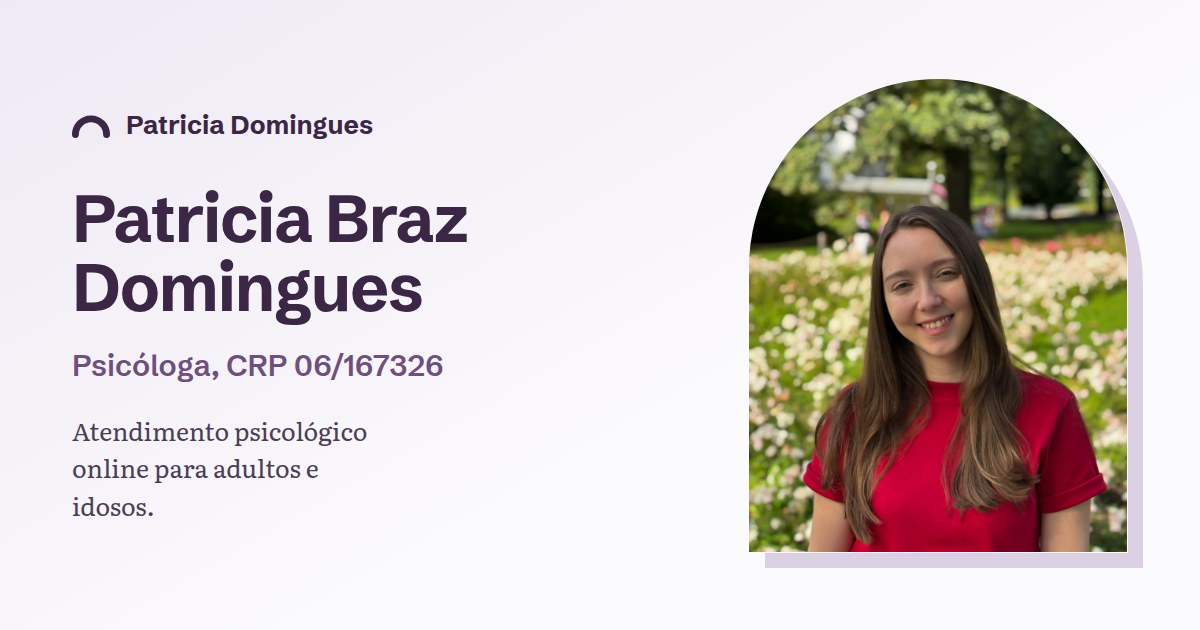
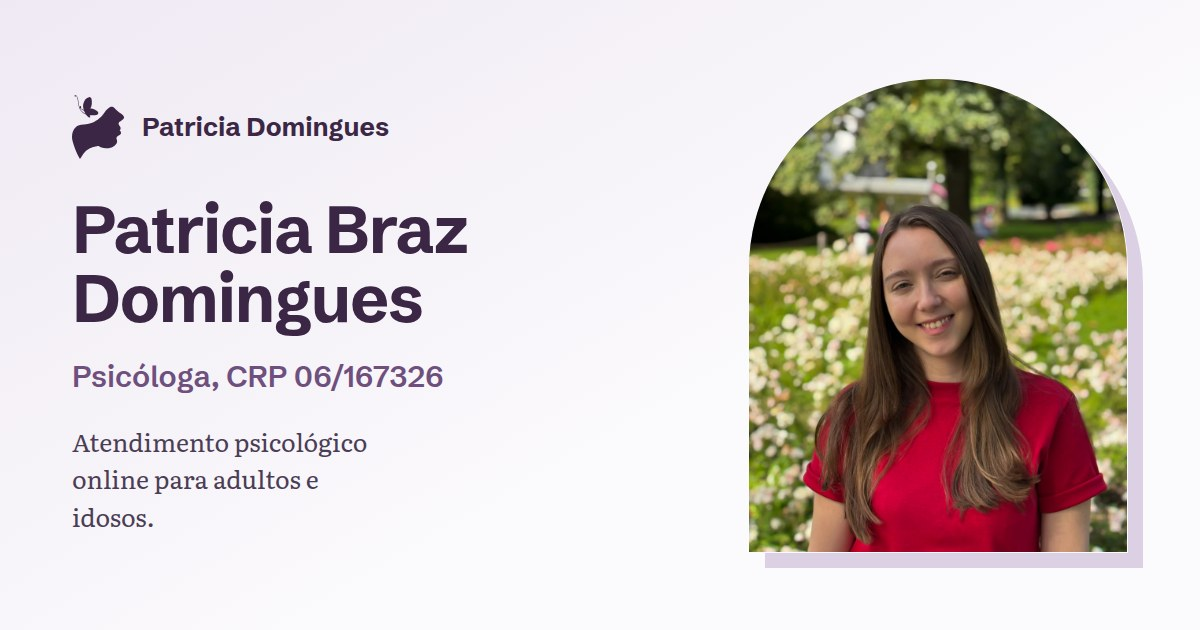
Coloca o logotipo da Patricia no lugar do monograma provisório
O briefing deixava em aberto se ela já tinha logo. Tinha: um rosto de
perfil em traço contínuo com uma borboleta, mais o nome manuscrito. O
arco que eu havia inventado como marca sai do cabeçalho e do centro do
selo.

Os três PNGs foram vetorizados para SVG (scripts/vetorizar-logo.mjs).
Em vetor a marca fica nítida em qualquer tamanho, pesa poucos KB e, por
usar currentColor, se recolore sozinha: ameixa no fundo claro, clara
dentro da faixa escura, e acompanha uma eventual troca de paleta sem
precisar de um segundo arquivo.

Cada lugar recebe o recorte que o tamanho comporta, o que foi decidido
medindo em prova de tela:

- cabeçalho e menu: só o símbolo, 48 px. Abaixo de ~110 px o manuscrito
  fica ilegível, então o nome continua tipografado ao lado.
- centro do selo do CRP: só a borboleta.
- rodapé: a assinatura inteira, único lugar com espaço para o
  manuscrito ser lido.
- favicon: a borboleta sobre quadrado ameixa.

Em tamanho pequeno o traço original some. Como o caminho é um contorno
preenchido, um stroke da mesma cor engrossa a marca sem redesenhá-la:
15 no cabeçalho, 18 no selo, 40 no favicon. Acima de ~28 a linha perde
a delicadeza do original.

O arco continua onde sempre foi forma de layout e não marca: o recorte
da foto do hero e os marcadores em ocre da lista. O princípio 1.1 do
plano de design foi reescrito para registrar a troca.

Claude-Session: https://claude.ai/code/session_01X8HGR24QLZTwQCYtNPGHij

Changed region(s): [[0.0617, 0.3016, 0.4008, 0.6333], [0.0617, 0.6635, 0.3083, 0.8444], [0.0617, 0.1508, 0.3392, 0.2413]]

diff --git a/scripts/og-template.html b/scripts/og-template.html
@@ -38,7 +38,7 @@
     padding: 72px;
   }
 
-  .marca { display: flex; align-items: center; gap: 16px; margin-bottom: 40px; }
+  .marca { display: flex; align-items: center; gap: 18px; margin-bottom: 36px; }
   .marca svg { color: var(--ameixa-900); }
   .marca span { font-size: 26px; font-weight: 700; color: var(--ameixa-900); }
 
@@ -100,8 +100,8 @@
 <body>
   <div>
     <div class="marca">
-      <svg viewBox="0 0 100 60" width="38" height="38" fill="none">
-        <path d="M9 55 A 41 41 0 0 1 91 55" stroke="currentColor" stroke-width="18" stroke-linecap="round"/>
+      <svg viewBox="0 0 2000 2460" style="height:64px;width:auto" fill="currentColor">
+        <path d="M 131 1.132 C 124.134 2.279, 114.559 6.692, 109.723 10.938 C 100.531 19.009, 96.302 36.858, 100.997 47.771 C 108.640 65.537, 134.548 72.027, 141.008 57.793 C 142.196 55.175, 142.948 51.354, 142.936 48 C 142.914 41.662, 140.040 32.617, 137.935 32.257 C 135.776 31.888, 123.485 39.457, 123.600 41.084 C 123.655 41.863, 124.052 43.603, 124.481 44.951 L 125.262 47.402 122.381 45.526 C 118.355 42.905, 117.068 40.972, 117.037 37.500 C 116.940 26.371, 125.015 19, 137.305 19 C 141.945 19, 143.409 19.527, 148.087 22.881 C 171.874 39.937, 201.879 104.232, 216.511 169.500 C 222.745 197.312, 229.333 241.545, 232.989 280.146 C 239.771 351.752, 249.175 403.262, 264.948 455.201 C 283.211 515.344, 299.962 552.886, 325.092 590 C 356.317 636.114, 402.043 678.929, 452.454 709.250 C 474.842 722.716, 507.389 738.334, 530 746.461 C 536.987 748.973, 537.842 749.610, 542.500 755.782 C 569.936 792.135, 613.076 835.030, 641 853.721 C 664.249 869.283, 679.729 871.916, 691.042 862.232 C 696.880 857.235, 699.243 851.972, 699.795 842.744 C 700.602 829.229, 695.715 811.020, 685.304 788.744 C 683.310 784.478, 681.864 780.816, 682.089 780.606 C 682.315 780.396, 686.325 780.630, 691 781.126 C 706.259 782.746, 770.020 783.339, 795 782.094 C 919.711 775.879, 985.608 755.505, 1004.760 717.240 C 1016.968 692.848, 1010.125 666.068, 984.049 636.194 C 960.724 609.473, 914.209 576.764, 866.500 553.534 C 826.577 534.096, 778.232 523.093, 724.341 521.180 L 705.183 520.500 710.133 512.500 C 734.890 472.495, 752.258 419.799, 758.417 366 C 761.900 335.571, 763.203 265.075, 760.973 227.711 C 757.044 161.910, 744.248 122.156, 719.672 99.402 C 711.790 92.105, 698.704 85.064, 688 82.360 C 680.018 80.345, 664.199 80.138, 654 81.915 C 626.143 86.772, 580.178 110.583, 550 135.791 C 528.254 153.955, 504.838 181.242, 488.462 207.500 C 458.894 254.911, 436.398 320.147, 428.459 381.500 C 424.855 409.346, 425.528 450.607, 430.105 482.500 C 433.835 508.497, 444.023 551.316, 451.982 574.448 C 453.095 577.682, 453.823 580.510, 453.601 580.732 C 453.379 580.955, 442.690 574.280, 429.848 565.900 C 417.007 557.520, 396.600 544.482, 384.500 536.926 C 349.220 514.895, 343.230 510.900, 336.899 505.171 C 333.607 502.191, 331.100 499.566, 331.329 499.337 C 331.558 499.109, 334.797 500.070, 338.526 501.474 C 342.256 502.877, 345.518 503.815, 345.776 503.558 C 347.557 501.776, 350.243 487.853, 350.710 477.975 C 351.169 468.285, 350.916 465.100, 349.122 457.975 C 344.808 440.841, 334.581 424.667, 326.342 421.948 C 320.629 420.062, 316.345 421.525, 310.521 427.348 C 302.382 435.487, 296.073 451.123, 296.017 463.292 C 295.958 476.218, 303.491 495.212, 313.446 507.238 C 323.101 518.901, 334.079 527.192, 363.444 544.996 C 372.763 550.646, 392.563 563.221, 407.444 572.940 C 422.325 582.658, 440.887 594.559, 448.694 599.386 L 462.887 608.162 465.579 615.331 C 478.378 649.422, 494.904 683.793, 512.058 711.999 C 515.235 717.224, 517.710 721.623, 517.557 721.776 C 517.083 722.250, 490.056 709.424, 479 703.479 C 441.372 683.243, 409.732 659.178, 378.979 627.403 C 351.530 599.042, 332.246 571.646, 314.992 536.500 C 304.671 515.474, 299.105 501.648, 290.438 475.500 C 270.044 413.976, 258.804 359.692, 252.442 292 C 243.440 196.216, 231.340 138.769, 209.068 86.072 C 195.586 54.172, 181.211 30.170, 167.040 15.899 C 154.282 3.049, 144.214 -1.076, 131 1.132 M 657 99.698 C 646.189 101.536, 632.794 106.517, 616 114.944 C 573.719 136.160, 545.991 159.244, 517.903 196.608 C 471.697 258.075, 441.332 357.052, 444.380 436.268 C 446.161 482.546, 453.813 520.908, 473.747 583.488 L 477.565 595.475 492.033 603.853 C 560.881 643.719, 587.411 661.939, 613.834 687.500 C 634.143 707.145, 650.208 727.067, 664.852 750.761 C 668.333 756.392, 671.477 761.006, 671.840 761.012 C 672.203 761.019, 679.250 761.718, 687.500 762.565 C 732.107 767.145, 815.731 764.797, 870.783 757.420 C 926.512 749.952, 962.535 737.642, 980.064 720.077 C 987.269 712.858, 990.420 707.294, 992.020 698.965 C 997.542 670.220, 960.811 628.880, 894.500 589.206 C 861.025 569.179, 832.654 557.165, 800.934 549.585 C 770.165 542.233, 748.184 539.653, 715.805 539.593 L 691.111 539.547 688.419 542.024 C 686.939 543.386, 676.483 554.850, 665.183 567.500 C 626.790 610.482, 616.576 618.546, 594.141 623.594 C 585.277 625.588, 574.075 625.122, 569 622.547 C 557.060 616.491, 552.353 603.754, 556.970 590 C 561.260 577.219, 572.483 562.244, 584.703 552.993 C 603.117 539.053, 635.924 528.515, 676.543 523.493 L 681.586 522.869 688.705 512.185 C 703.425 490.091, 714.982 466.148, 723.980 439.101 C 738.859 394.376, 743.976 353.018, 743.972 277.500 C 743.969 206.813, 737.920 164.105, 723.894 135.739 C 718.799 125.435, 716.171 121.684, 708.896 114.334 C 697.976 103.302, 686.589 98.905, 669.540 99.136 C 664.018 99.211, 658.375 99.464, 657 99.698 M 320.653 443.131 C 311.753 456.741, 312.762 474.313, 323.351 490.117 C 325.703 493.628, 328.048 496.421, 328.564 496.323 C 330.613 495.937, 332.317 486.167, 332.369 474.500 C 332.417 463.760, 332.141 461.786, 329.736 455.696 C 328.258 451.954, 325.958 447.063, 324.625 444.828 L 322.201 440.763 320.653 443.131 M 1499.231 454.146 C 1480.482 456.834, 1454.164 466.119, 1435.435 476.654 C 1396.036 498.813, 1354.994 536.268, 1313.423 588 C 1299.538 605.279, 1286.501 622.727, 1257.009 663.500 C 1211.476 726.450, 1191.591 752.237, 1163.072 785.320 C 1095.643 863.539, 1016.512 931.030, 918.404 993.998 C 839.233 1044.813, 768.205 1075.629, 679.837 1097.506 C 622.442 1111.715, 578.821 1118.526, 462 1131.521 C 402.250 1138.168, 366.397 1142.923, 341.500 1147.505 C 247.051 1164.884, 185.390 1193.769, 134.444 1244.500 C 88.246 1290.503, 49.878 1355.444, 27.211 1426 C -1.711 1516.027, -7.552 1619.839, 10.585 1721.500 C 18.122 1763.741, 47.522 1865.921, 79.353 1960.500 C 132.874 2119.526, 199.259 2272.230, 266.724 2391.500 C 282.827 2419.969, 307.303 2460.097, 308.077 2459.300 C 308.504 2458.860, 334.018 2419.535, 364.774 2371.911 C 427.568 2274.678, 436.342 2262.037, 464.318 2228.500 C 525.728 2154.882, 604.420 2091.874, 690.500 2047.397 C 773.313 2004.608, 863.483 1977.976, 957.500 1968.537 C 976.475 1966.632, 1003.486 1965.022, 1016.681 1965.010 L 1026.861 1965 1048.236 1975.428 C 1132.107 2016.348, 1206.037 2038.306, 1288 2046.642 C 1319.620 2049.857, 1373.769 2048.911, 1414.500 2044.432 C 1496.467 2035.417, 1564.889 2008.551, 1621.447 1963.173 C 1672.227 1922.432, 1697.637 1893.801, 1715.037 1857.717 C 1727.049 1832.806, 1732.890 1810.029, 1733.735 1784.804 C 1734.601 1758.937, 1732.175 1745.644, 1719.560 1707.146 C 1709.874 1677.586, 1708.603 1671.161, 1709.262 1655.073 C 1709.860 1640.482, 1711.825 1633.097, 1718.597 1620 C 1724.466 1608.647, 1731.473 1599.545, 1741.340 1590.454 C 1755.370 1577.529, 1768.415 1568.937, 1808 1546.551 C 1847.726 1524.084, 1865.921 1508.282, 1875.992 1487.500 C 1882.066 1474.965, 1883.425 1468.595, 1883.355 1453 C 1883.286 1437.525, 1881.553 1429.487, 1875.166 1415.014 C 1868.761 1400.500, 1859.765 1387.557, 1843.661 1369.691 L 1835.722 1360.882 1838.739 1357.691 C 1844.051 1352.073, 1850.569 1342.442, 1855.435 1333.021 C 1864.643 1315.193, 1868.058 1300.941, 1868.063 1280.321 C 1868.069 1259.262, 1863.443 1240.810, 1852.882 1219.765 C 1844.499 1203.059, 1839.625 1195.830, 1817.981 1168 C 1793.511 1136.534, 1786.036 1104.622, 1796.093 1074.546 C 1801.523 1058.306, 1813.918 1040.341, 1828.615 1027.411 C 1832.952 1023.595, 1865.765 1000.351, 1901.534 975.758 C 1967.682 930.276, 1975.092 924.584, 1983.875 912.500 C 1989.148 905.246, 1993.845 895.633, 1996.578 886.500 C 2000.136 874.612, 2000.396 856.742, 1997.184 844.813 C 1990.513 820.037, 1976.894 798.745, 1951.558 773.482 C 1935.821 757.789, 1923.199 747.432, 1892.500 725.016 C 1832.362 681.104, 1774.074 633.463, 1717.587 582.052 C 1701.467 567.380, 1670.651 536.901, 1641.500 506.796 C 1634.350 499.412, 1624.520 490.415, 1619.656 486.802 C 1596.269 469.432, 1568.645 457.700, 1542.608 454.078 C 1533.526 452.815, 1508.237 452.854, 1499.231 454.146 M 1505.500 471.615 C 1458.647 478.438, 1416.733 503.560, 1367 554.629 C 1342.557 579.729, 1320.963 606.191, 1288.971 650.250 C 1279.087 663.862, 1262.908 686.138, 1253.018 699.750 C 1206.694 763.511, 1174.373 802.379, 1131.515 845.869 C 1087.614 890.418, 1044.806 927.300, 994.882 963.588 C 883.666 1044.428, 799.594 1085.704, 688.446 1114.038 C 630.642 1128.773, 582.933 1136.409, 473 1148.522 C 368.334 1160.055, 332.699 1165.825, 288 1178.478 C 228.053 1195.448, 185.613 1219.356, 146.916 1257.957 C 119.731 1285.076, 99.189 1313.035, 78.191 1351.500 C 26.219 1446.704, 7.033 1571.658, 25.063 1697.500 C 30.245 1733.662, 43.499 1785.803, 67.559 1864.666 C 129.731 2068.458, 209.100 2257.017, 293.948 2402.500 C 300.684 2414.050, 306.714 2424.027, 307.348 2424.671 C 308.222 2425.559, 319.968 2408.055, 356 2352.171 C 382.125 2311.652, 408.397 2271.635, 414.381 2263.244 C 473.472 2180.399, 553.545 2106.547, 641 2054.231 C 746.506 1991.117, 868.854 1953.826, 990.374 1947.744 L 995.248 1947.500 972.374 1933.801 C 934.042 1910.843, 875.505 1871.717, 816.530 1829.635 C 684.851 1735.674, 570.981 1613.253, 484.808 1473 C 474.849 1456.790, 459.700 1430.649, 451.649 1415.779 L 446.927 1407.059 455.175 1402.912 C 459.711 1400.632, 463.575 1399.225, 463.762 1399.786 C 463.949 1400.347, 468.945 1409.512, 474.864 1420.153 C 559.621 1572.526, 678.335 1706.710, 819 1809.136 C 858.781 1838.103, 932.531 1888.128, 966.500 1909.186 C 1072.120 1974.664, 1172.872 2013.776, 1267.164 2025.906 C 1322.579 2033.034, 1383.980 2031.790, 1440.500 2022.394 C 1500.398 2012.437, 1555.209 1990.103, 1598.663 1957.949 C 1628.258 1936.049, 1663.954 1902.488, 1678.661 1882.735 C 1707.707 1843.723, 1720.606 1799.138, 1714.523 1758.780 C 1712.555 1745.725, 1710.041 1736.205, 1702.440 1713.026 C 1694.395 1688.493, 1692.389 1680.625, 1691.027 1668.245 C 1687.716 1638.160, 1700.072 1606.117, 1724.491 1581.457 C 1738.752 1567.056, 1753.036 1557.193, 1791.410 1535.250 C 1825.270 1515.889, 1834.170 1509.855, 1845.582 1498.520 C 1852.965 1491.188, 1855.448 1487.909, 1858.851 1481 C 1866.158 1466.166, 1867.604 1451.981, 1863.464 1435.772 C 1861.141 1426.678, 1853.236 1410.837, 1845.954 1400.683 C 1838.383 1390.127, 1823.597 1374.163, 1821.574 1374.360 C 1820.119 1374.501, 1810 1363.392, 1810 1361.654 C 1810 1360.149, 1821.100 1347.944, 1821.976 1348.485 C 1823.016 1349.128, 1828.429 1342.477, 1834.749 1332.790 C 1844.976 1317.117, 1849.941 1300.349, 1849.978 1281.360 C 1850.038 1250.744, 1838.151 1222.699, 1810.195 1187.500 C 1797.931 1172.058, 1791.078 1161.521, 1784.999 1148.759 C 1767.274 1111.549, 1769.838 1075.515, 1792.652 1041.228 C 1798.942 1031.775, 1814.104 1015.453, 1823.419 1008.108 C 1826.764 1005.471, 1857.850 983.878, 1892.500 960.124 C 1962.416 912.195, 1965.977 909.303, 1973.928 894.022 C 1979.277 883.740, 1981.308 875.591, 1981.286 864.500 C 1981.238 840.960, 1967.179 814.517, 1940.439 787.672 C 1925.769 772.944, 1915.253 764.316, 1882.688 740.291 C 1832.927 703.579, 1793.800 672.522, 1750.499 635.365 C 1706.697 597.779, 1658.335 552.136, 1639.807 530.898 C 1628.072 517.447, 1622.057 511.683, 1610 502.339 C 1592.059 488.435, 1570.380 478.182, 1549 473.490 C 1541.734 471.895, 1512.289 470.626, 1505.500 471.615 M 649 546.559 C 614.931 554.407, 600.699 561.081, 586.989 575.641 C 576.444 586.840, 570.531 600.388, 574.470 604.327 C 577.075 606.933, 580.860 607.428, 588.475 606.161 C 598.825 604.439, 609.904 598.609, 619.294 589.944 C 626.108 583.656, 658.279 548.637, 660.353 545.250 C 661.309 543.689, 661.607 543.654, 649 546.559 M 489.913 627.750 C 496.294 643.842, 511.617 675.273, 521.510 692.560 C 526.477 701.241, 543.564 727.512, 547.255 732.144 C 550.116 735.733, 599.197 749.211, 628.500 754.454 C 636.200 755.832, 643.741 757.183, 645.258 757.456 L 648.015 757.953 646.267 755.227 C 634.036 736.156, 620.640 719.566, 604.501 703.500 C 589.210 688.279, 574.042 676.222, 550.500 660.575 C 535.058 650.312, 490.089 623, 488.633 623 C 488.301 623, 488.877 625.138, 489.913 627.750 M 569 759.754 C 569 761.175, 588.684 782.713, 603.987 798.037 C 623.636 817.712, 636.873 829.098, 651.283 838.719 C 666.250 848.711, 675.146 851.813, 679.559 848.577 C 681.236 847.346, 681.491 845.955, 681.433 838.327 C 681.375 830.729, 680.794 827.810, 677.256 817.366 C 674.996 810.692, 670.230 799.124, 666.666 791.658 C 659.472 776.592, 660.949 777.800, 647.500 775.983 C 627.870 773.331, 594.206 766.383, 575.750 761.174 C 572.038 760.126, 569 759.487, 569 759.754"/>
       </svg>
       <span>Patricia Domingues</span>
     </div>

diff --git a/docs/plano-design.md b/docs/plano-design.md
@@ -6,15 +6,37 @@ sairia "de fábrica" para qualquer site de psicologia.
 
 ## 1. Três princípios
 
-### 1.1 O arco é a única assinatura, e ela é escassa
+### 1.1 A marca dela aparece pouco, e por isso aparece
 
-O arco (◠) aparece em exatamente três lugares: a foto do hero, o monograma do
-logotipo e os marcadores da lista "Talvez você esteja aqui". Em nenhum outro.
+> Revisado depois que a Patricia enviou o logotipo dela. A versão anterior
+> deste princípio dizia que o arco (◠) era a assinatura do site — ele era um
+> monograma provisório, inventado enquanto não se sabia se ela tinha logo.
+> Tem. O arco saiu do logotipo e do centro do selo.
 
-O reflexo automático seria repetir a forma em todo canto — topo de seção,
-divisória, moldura de ícone — até virar papel de parede. A escassez é o que faz
-o arco ser lido como assinatura e não como enfeite. Se a forma aparecer num
-quarto lugar, ela deixa de significar alguma coisa.
+O logotipo da Patricia é um rosto de perfil em traço contínuo com uma borboleta,
+acompanhado do nome manuscrito. Ele aparece em três lugares, cada um com o
+recorte que aquele tamanho comporta:
+
+| Onde | Recorte | Por quê |
+|---|---|---|
+| Cabeçalho e menu | só o símbolo, 48 px | abaixo de ~110 px o manuscrito fica ilegível; o nome vai tipografado ao lado |
+| Centro do selo do CRP | só a borboleta | o elemento mais simples da marca, no único ornamento da página |
+| Rodapé | a assinatura inteira | é o único lugar com espaço para o manuscrito ser lido |
+
+O reflexo automático seria carimbar o símbolo em todo canto — topo de seção,
+divisória, marca d'água atrás do texto. A escassez é o que faz a marca ser lida
+como assinatura e não como papel de parede.
+
+O arco permaneceu onde sempre foi forma de layout, e não marca: o recorte da
+foto do hero (vindo da referência visual) e os marcadores em ocre da lista
+"Talvez você esteja aqui", que ecoam esse recorte.
+
+Os três arquivos foram vetorizados dos PNGs originais
+(`scripts/vetorizar-logo.mjs`) e usam `currentColor`: a marca herda a cor do
+texto, então acompanha a faixa escura e qualquer troca de paleta sem precisar
+de um segundo arquivo. Em tamanhos pequenos o traço é engrossado por `stroke`
+— 15 unidades no cabeçalho, 18 na borboleta do selo, 40 no favicon —, o que dá
+leitura sem redesenhar a marca.
 
 ### 1.2 O CRP ocupa o lugar do ornamento
 
@@ -130,6 +152,7 @@ Cada linha abaixo é uma decisão que teria saído no automático e foi substitu
 
 | Reflexo automático | O que ficou | Motivo |
 |---|---|---|
+| Logotipo grande em marca d'água atrás de uma seção | A marca em três pontos, cada um no recorte que o tamanho comporta | 1.1 |
 | Rótulo em CAIXA ALTA espaçada acima de cada H2 | Nada acima do H2; a linha de apoio, quando existe, é sentence case em Schibsted Grotesk 15 px | 6.8: rótulo em versalete é a assinatura de template |
 | "Saiba mais" / "Agende agora →" | "Ver horários na Vittude", "Chamar no WhatsApp", "Agendar sessão" — nomes que dizem o que acontece, iguais em todo o site | 6.8 e 7 |
 | Ícone de cérebro, cabeça com engrenagem ou flor de lótus | Câmera de vídeo, duas pessoas, relógio (Phosphor regular, SVG inline) | 6.7: clichê de categoria |

diff --git a/docs/pendencias.md b/docs/pendencias.md
@@ -46,10 +46,11 @@ volta editando `src/data/site.ts`.
    `hero.titulo`, em `src/data/site.ts`.
 3. **Fotos.** O site mostra um espaço liso em lilás com a legenda "Foto da
    Patricia" até as fotos reais entrarem. Ver o README.
-4. **Logotipo e cores próprias.** Se ela já usa uma identidade no Instagram,
-   dá para adaptar os tokens. Hoje o site usa a Paleta A do briefing
-   ("ameixa e ocre"); a Paleta B está comentada no fim de
-   `src/styles/tokens.css`.
+4. **Cores próprias.** O logotipo dela já está no site (resolvido). Falta saber
+   se ela usa uma paleta própria no Instagram — hoje o site usa a Paleta A do
+   briefing ("ameixa e ocre"), e a Paleta B está comentada no fim de
+   `src/styles/tokens.css`. O logotipo é vetorial e herda a cor do texto, então
+   acompanha qualquer paleta sem precisar de novo arquivo.
 5. **Domínio e e-mail profissional.** Sugestões do briefing para verificar no
    registro.br: `patriciadomingues.com.br`, `patriciabrazdomingues.com.br`,
    `psicologapatriciadomingues.com.br`.
